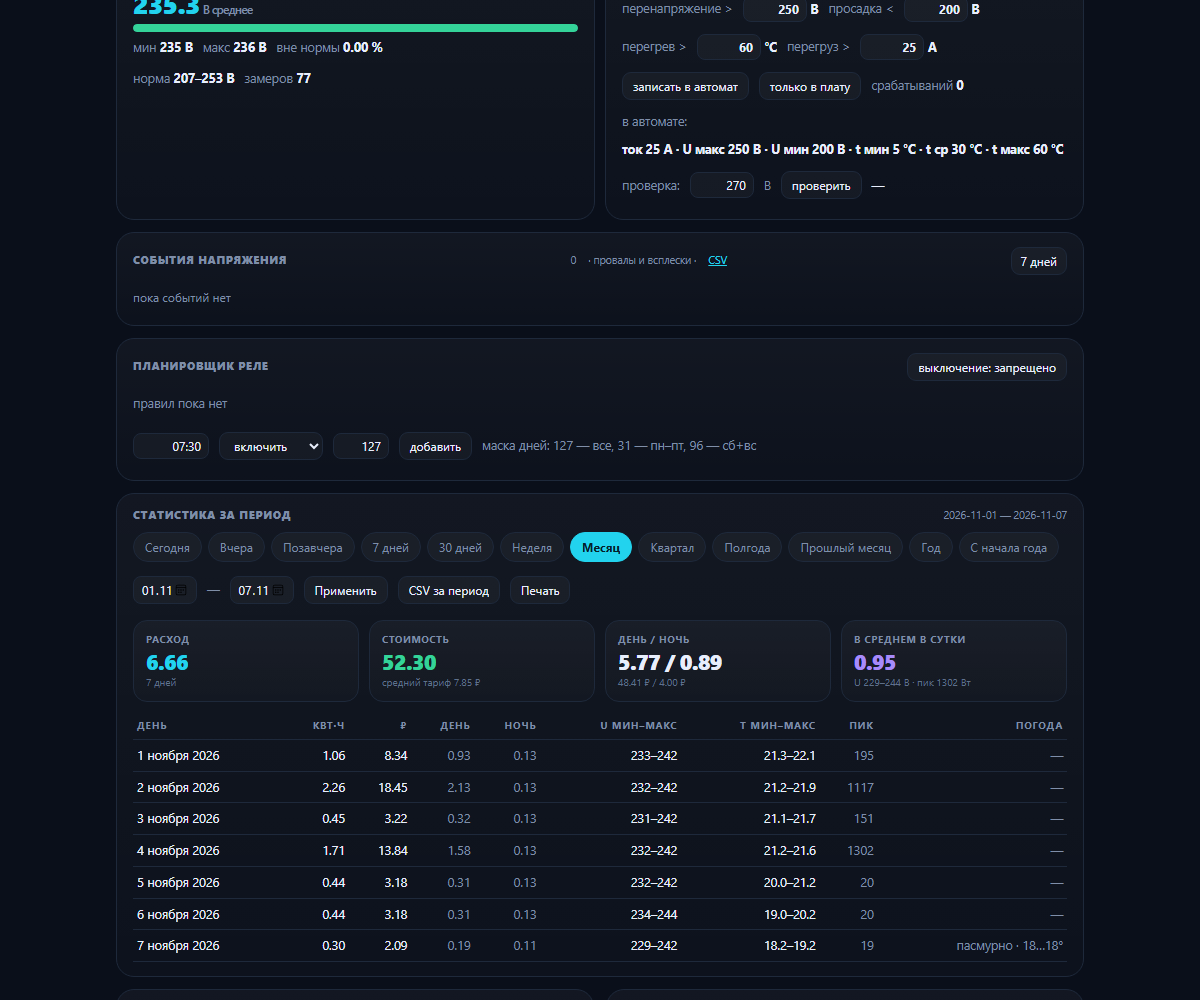
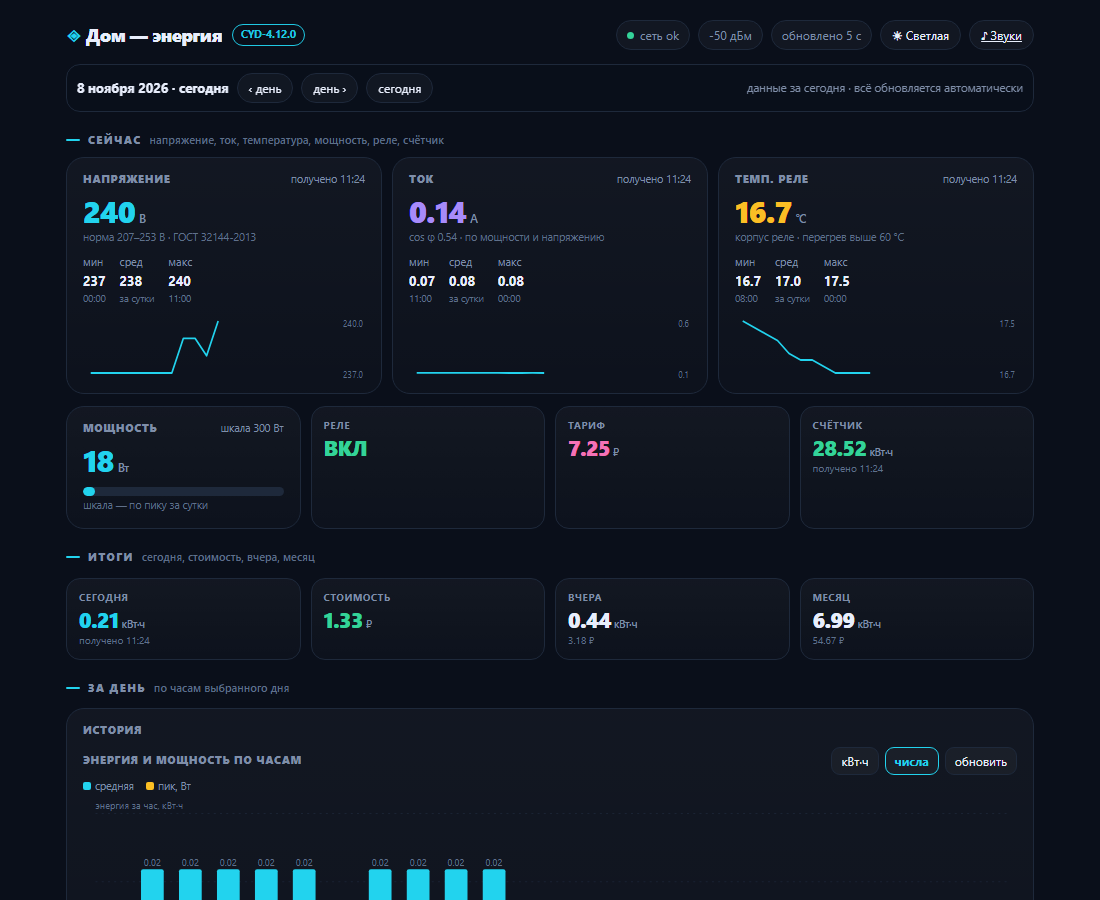
ревью 08.11: ключи событий ev_hour/ev_touch, desc, legacy beepPlay, cKey 64, атомарная компактация weather.csv; финальный бинарник 4.12.0

diff --git a/CHANGELOG.md b/CHANGELOG.md
@@ -1,8 +1,29 @@
 # История версий
 
-## 4.12.0 — (готовится к релизу, 09.11.2026)
+## 4.12.0 — 08.11.2026
 
-Статистика за период, тарифы с историей и погода по дням.
+Статистика за период, тарифы с историей, погода по дням и звуки.
+
+- **Звук**: 12 коротких пресетов (350–900 Гц, без «ультразвука»), выбор звука
+  на каждое событие — загрузка, перезагрузка/OTA, завершение OTA, ошибка/защита,
+  авария по напряжению/перегрузу, включение и выключение реле, начало часа,
+  касание экрана. Громкость по умолчанию **10 %**, жёсткий потолок 40 %.
+  Тихие часы 22:00–08:00 (ночью 5 %), **но авария и перегруз звучат всегда**.
+  Временное приглушение на 10/30/60 минут. Настройка: страница `/sound.html`
+  на плате и вкладка «Звуки» в приложении. API: `GET /sound`, `?vol=`, `?nvol=`,
+  `?mute=`, `?quiet=`, `?<событие>=<пресет>`, `/beep?preset=N`.
+- **Погода по дням — исправлено**: раньше в `weather.csv` попадала температура
+  реле (18 °C вместо +4). Теперь пишется уличная температура и отдельно
+  температура реле; в таблице периода две колонки — «t реле» и «t улицы».
+  Формат строки: `дата, t_улицы_min, t_улицы_max, t_реле_min, t_реле_max, описание, дождь%`
+  (старые строки из 4 полей читаются).
+- **Ротация `/weather.csv`**: раз в сутки в 04:05 остаётся по одной строке на
+  день — файл больше не растёт бесконечно.
+- **Приложение Windows**: диалог «Звуки платы», кнопка «Звуки» на вкладке
+  «Устройство» и в меню значка; крестик теперь **сворачивает в трей**
+  (полный выход — через меню значка), связь с платой не теряется.
+- **Уведомления**: гистерезис без дребезга на границе порога.
+
 
 - **Статистика за период** в вебе и приложении Windows: 12 готовых периодов
   (сегодня, вчера, позавчера, 7/30 дней, неделя, месяц, квартал, полгода,

diff --git a/README.md b/README.md
@@ -77,6 +77,24 @@
 о восстановлении, алерт на срабатывание защиты, гистерезис порогов и
 опциональная ежедневная сводка (`tgDaily` в settings.json).
 
+## 🔊 Звуки (4.12)
+
+Плата умеет звучать: 12 коротких пресетов в низком диапазоне (350–900 Гц),
+выбор звука на каждое событие, громкость и тихие часы.
+
+- **События**: загрузка, перезагрузка/OTA, завершение OTA, ошибка/защита,
+  авария по напряжению или перегрузу, реле включилось/выключилось, начало часа,
+  касание экрана.
+- **Громкость**: 10 % по умолчанию, потолок 40 %; ночью (22:00–08:00) — 5 %.
+  **Авария и перегруз звучат всегда**, даже в тихие часы и при приглушении.
+- **Приглушение**: на 10, 30 или 60 минут.
+- **Где настроить**: страница `http://<ip>/sound.html` или вкладка «Звуки» в
+  приложении Windows; в вебе — кнопка «♪ Звуки» в шапке.
+- **API**: `GET /sound` — настройки и список пресетов, `?vol=10&nvol=5`,
+  `?mute=30`, `?quiet=0|1`, `?boot=11&error=10&relay_on=1…`, `/beep?preset=N`.
+
+Подключение: динамик или пьезоизлучатель между **GPIO 26** и **GND**.
+
 ## 🆕 Что нового в 4.11 (06.11.2026)
 
 - **Прошивка по Wi-Fi (OTA) наконец работает.** Схема разделов заменена на `min_spiffs`
